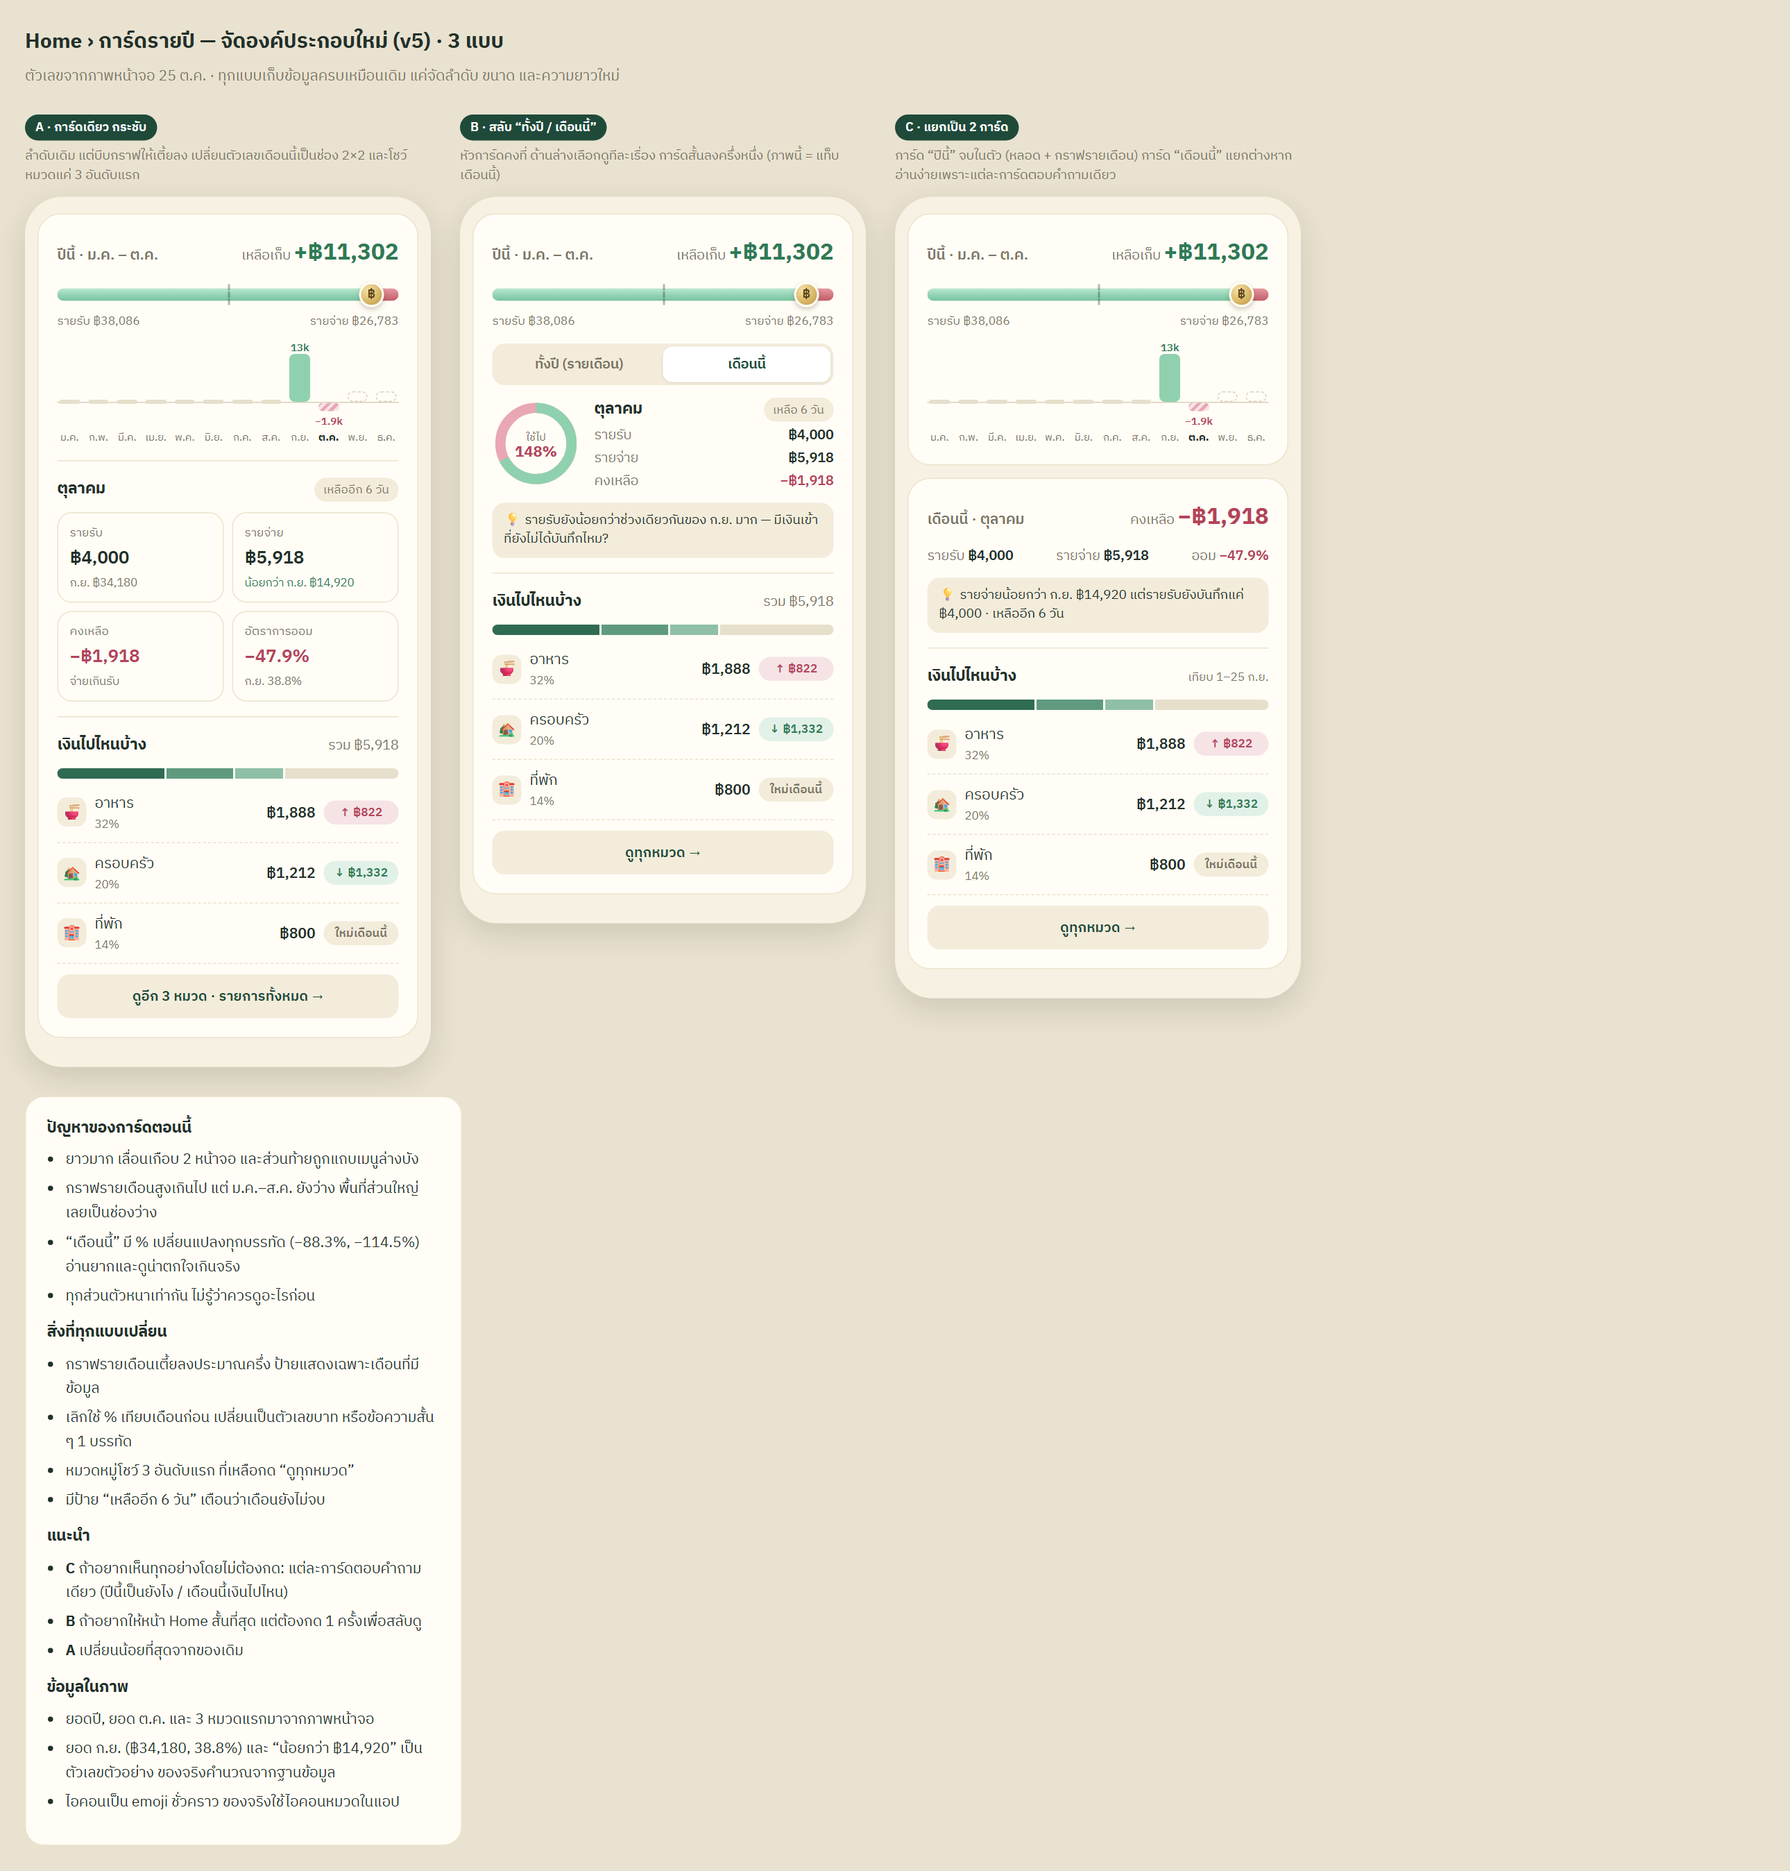
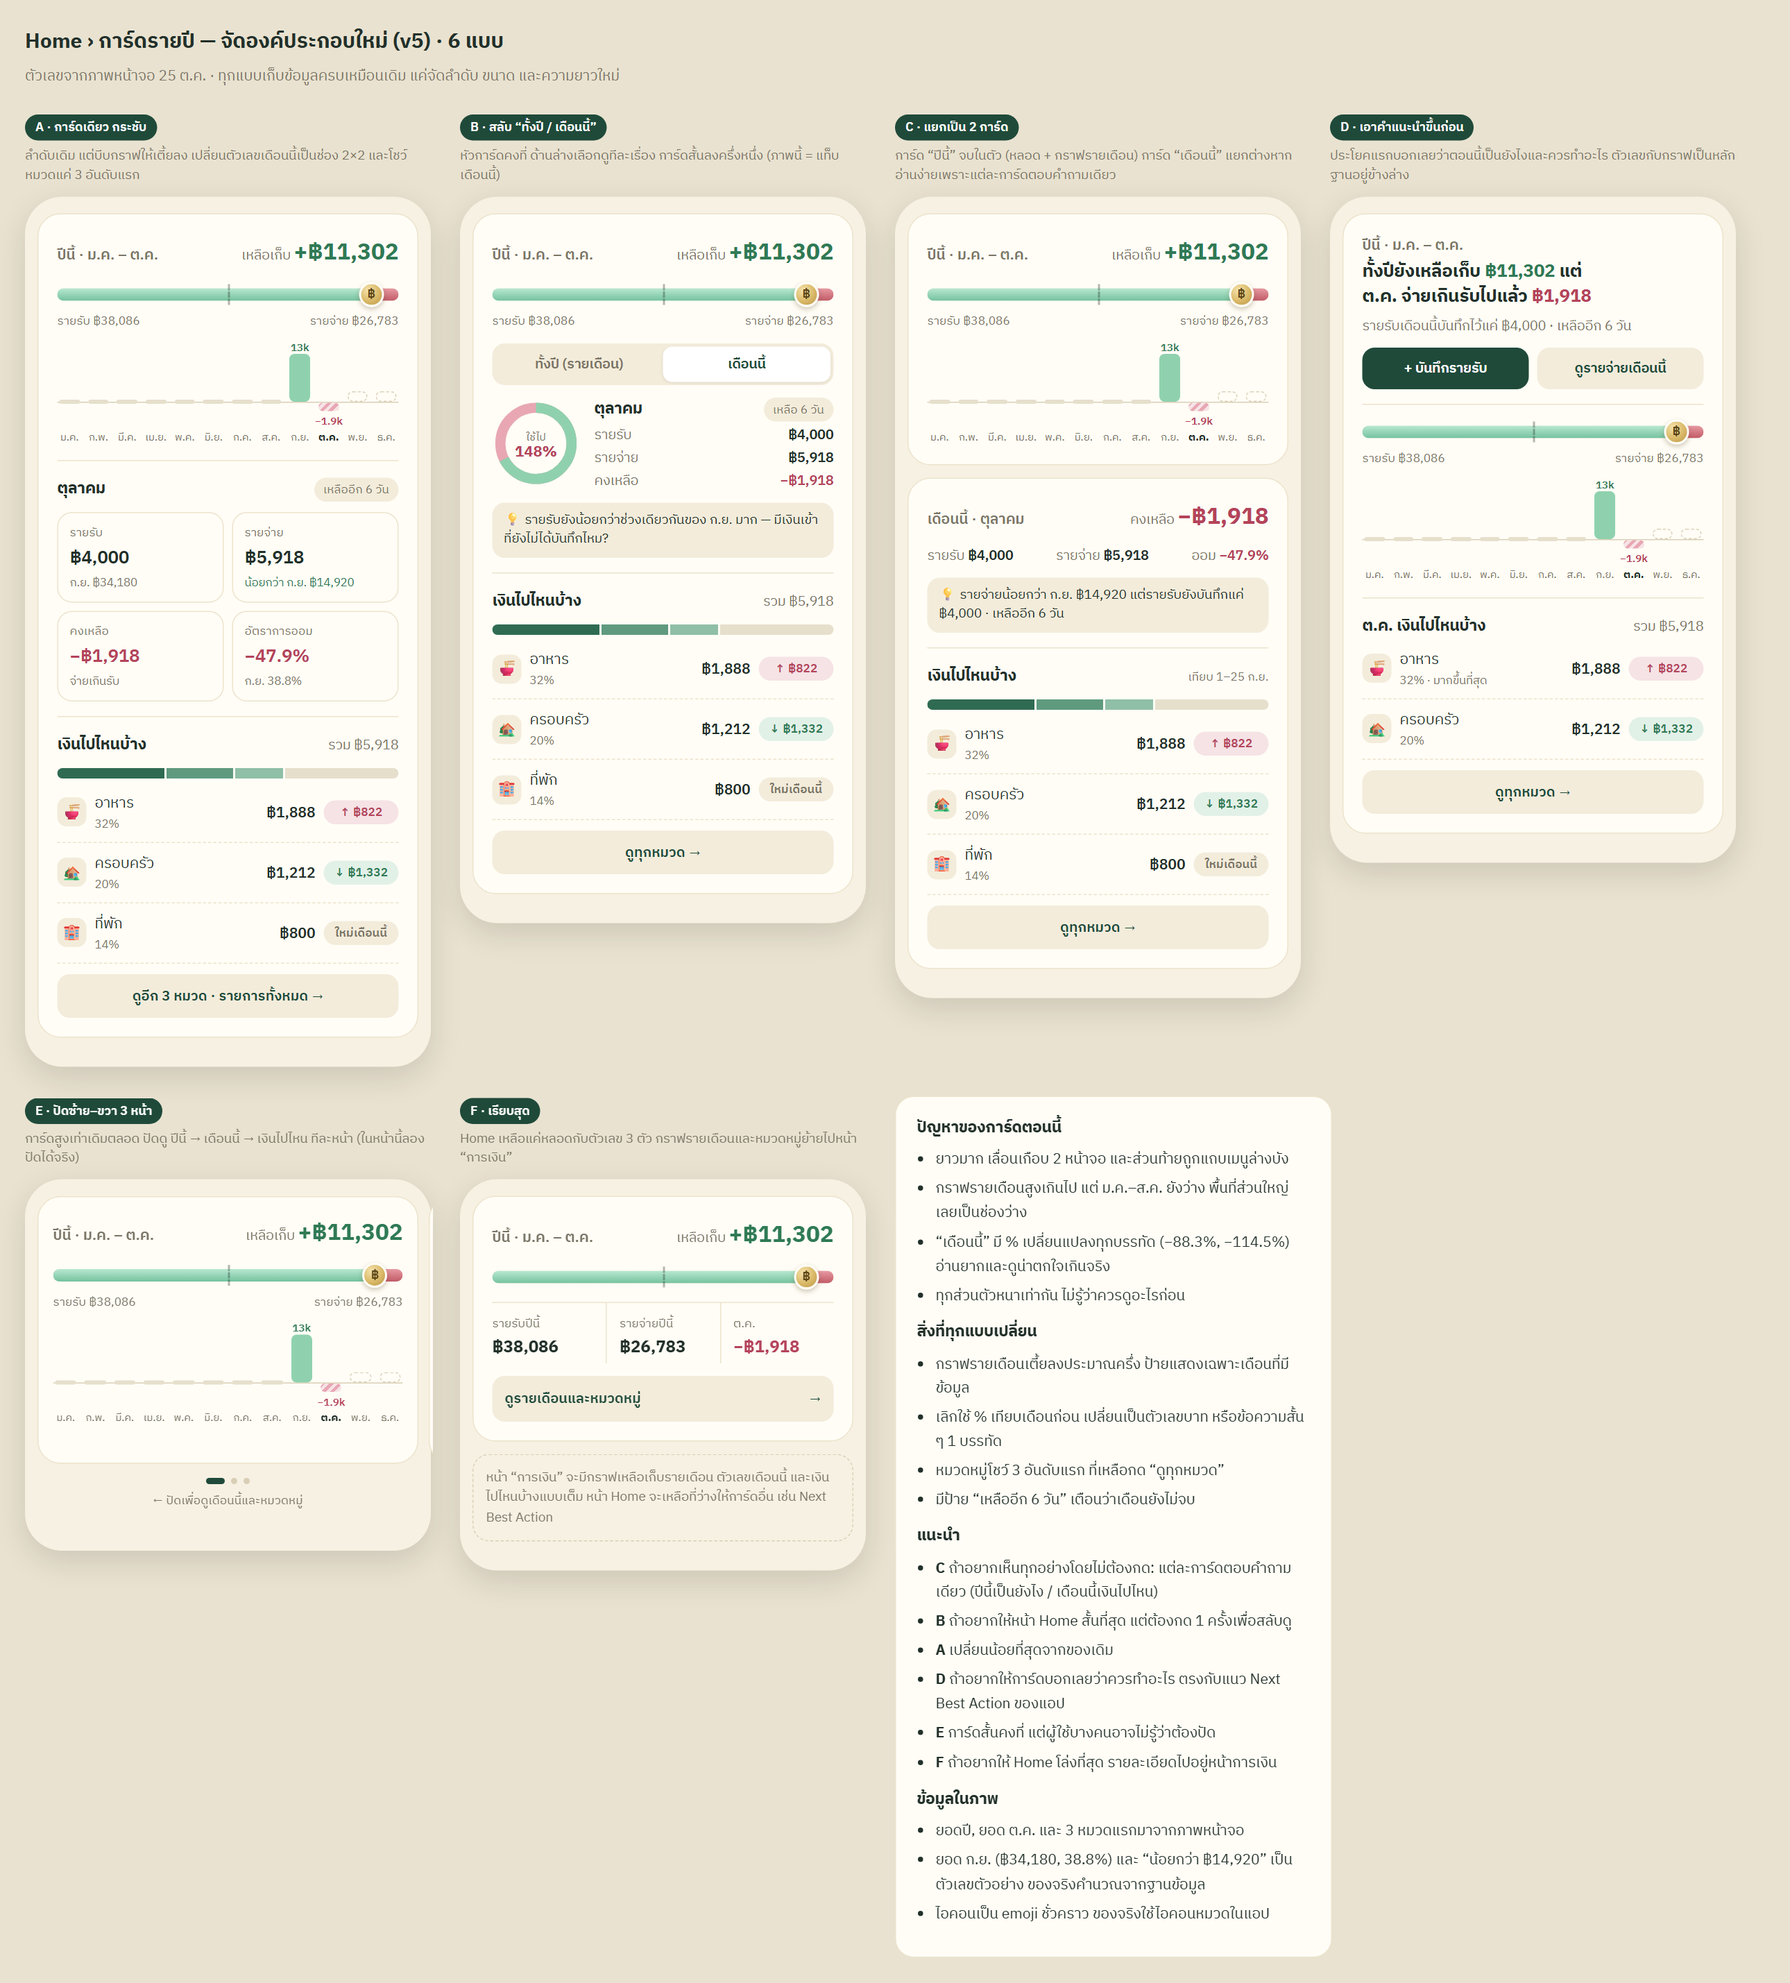
docs(mockup): add options D, E, F to Home yearly card layout v5
D leads with an insight and actions, E swipes between three pages,
F keeps only the bar and three numbers on Home.

diff --git a/assets/mockups/home-yearly-card-layout-v5.html b/assets/mockups/home-yearly-card-layout-v5.html
@@ -86,6 +86,36 @@
   /* ring */
   .ring{display:flex;gap:14px;align-items:center;margin-top:10px}
 
+  /* D: insight first */
+  .lead{font-size:17px;font-weight:700;line-height:1.45;margin:2px 0 0;text-wrap:balance}
+  .lead .good,.lead .bad{font-variant-numeric:tabular-nums}
+  .act{display:flex;gap:8px;margin-top:10px}
+  .act a{flex:1;text-align:center;font-size:13px;font-weight:600;padding:9px 6px;border-radius:12px;text-decoration:none}
+  .act a.pri{background:var(--green);color:#fff}
+  .act a.sec2{background:var(--sand);color:var(--green)}
+  .mini{display:grid;grid-template-columns:repeat(3,1fr);gap:6px;margin-top:12px}
+  .mini div{background:var(--sand);border-radius:12px;padding:7px 9px}
+  .mini span{display:block;font-size:11px;color:var(--muted)}
+  .mini b{font-size:14px;font-variant-numeric:tabular-nums}
+
+  /* E: swipe pages */
+  .swipe{display:flex;gap:10px;overflow-x:auto;scroll-snap-type:x mandatory;margin:0 -14px;padding:0 14px 4px;scrollbar-width:none}
+  .swipe::-webkit-scrollbar{display:none}
+  .swipe .pg{flex:0 0 100%;scroll-snap-align:center;background:var(--card);border:1px solid var(--line);border-radius:22px;padding:16px 14px}
+  .dots{display:flex;justify-content:center;gap:6px;margin-top:10px}
+  .dots i{width:6px;height:6px;border-radius:99px;background:#d9cfb6}
+  .dots i.on{width:18px;background:var(--green)}
+  .peek{font-size:11.5px;color:var(--muted);text-align:center;margin-top:6px}
+
+  /* F: minimal */
+  .trio{display:grid;grid-template-columns:repeat(3,1fr);gap:0;margin-top:12px;border-top:1px solid var(--line)}
+  .trio div{padding:10px 0 2px}
+  .trio div + div{border-left:1px solid var(--line);padding-left:12px}
+  .trio span{display:block;font-size:11.5px;color:var(--muted)}
+  .trio b{font-size:16px;font-variant-numeric:tabular-nums}
+  .rowlink{display:flex;justify-content:space-between;align-items:center;margin-top:12px;padding:11px 12px;border-radius:12px;background:var(--sand);font-size:13.5px;font-weight:600;color:var(--green)}
+  .moved{margin-top:12px;border:1.5px dashed #d9cfb6;border-radius:16px;padding:12px;font-size:12.5px;color:var(--muted);line-height:1.55}
+
   .notes{max-width:420px;background:#fffdf6;border-radius:18px;padding:18px 20px;font-size:14px;line-height:1.65;border:1px solid var(--line)}
   .notes h3{margin:0 0 6px;font-size:15px}
   .notes ul,.notes ol{padding-left:18px;margin:0 0 12px}
@@ -93,7 +123,7 @@
 </style>
 </head>
 <body>
-<h1>Home › การ์ดรายปี — จัดองค์ประกอบใหม่ (v5) · 3 แบบ</h1>
+<h1>Home › การ์ดรายปี — จัดองค์ประกอบใหม่ (v5) · 6 แบบ</h1>
 <p class="sub">ตัวเลขจากภาพหน้าจอ 25 ต.ค. · ทุกแบบเก็บข้อมูลครบเหมือนเดิม แค่จัดลำดับ ขนาด และความยาวใหม่</p>
 
 <div class="row">
@@ -213,6 +243,98 @@
   </div>
 </div>
 
+<!-- ================= D: insight first ================= -->
+<div class="col">
+  <span class="tag">D · เอาคำแนะนำขึ้นก่อน</span>
+  <p class="why">ประโยคแรกบอกเลยว่าตอนนี้เป็นยังไงและควรทำอะไร ตัวเลขกับกราฟเป็นหลักฐานอยู่ข้างล่าง</p>
+  <div class="phone"><div class="card">
+    <p class="h2">ปีนี้ · ม.ค. – ต.ค.</p>
+    <p class="lead">ทั้งปียังเหลือเก็บ <span class="good">฿11,302</span> แต่ ต.ค. จ่ายเกินรับไปแล้ว <span class="bad">฿1,918</span></p>
+    <p class="small muted" style="margin:4px 0 0">รายรับเดือนนี้บันทึกไว้แค่ ฿4,000 · เหลืออีก 6 วัน</p>
+    <div class="act"><a class="pri" href="#">+ บันทึกรายรับ</a><a class="sec2" href="#">ดูรายจ่ายเดือนนี้</a></div>
+
+    <div class="hr"></div>
+    <div class="tug"><div class="track"><span class="inc" style="width:92%"></span><span class="exp"></span></div><span class="mid"></span><span class="coin" style="left:92%">฿</span></div>
+    <div class="between xs muted"><span>รายรับ ฿38,086</span><span>รายจ่าย ฿26,783</span></div>
+    <div class="mbars">
+      <span class="zero"></span>
+      <div class="c"><b class="none"></b></div><div class="c"><b class="none"></b></div><div class="c"><b class="none"></b></div><div class="c"><b class="none"></b></div>
+      <div class="c"><b class="none"></b></div><div class="c"><b class="none"></b></div><div class="c"><b class="none"></b></div><div class="c"><b class="none"></b></div>
+      <div class="c"><b class="up" style="height:46px"></b><em class="good" style="top:0">13k</em></div>
+      <div class="c"><b class="down" style="height:8px"></b><em class="bad" style="top:71px">−1.9k</em></div>
+      <div class="c"><b class="fut"></b></div><div class="c"><b class="fut"></b></div>
+    </div>
+    <div class="mlabels"><span>ม.ค.</span><span>ก.พ.</span><span>มี.ค.</span><span>เม.ย.</span><span>พ.ค.</span><span>มิ.ย.</span><span>ก.ค.</span><span>ส.ค.</span><span>ก.ย.</span><span class="on">ต.ค.</span><span>พ.ย.</span><span>ธ.ค.</span></div>
+
+    <div class="hr"></div>
+    <div class="between"><p class="sec">ต.ค. เงินไปไหนบ้าง</p><span class="small muted">รวม ฿5,918</span></div>
+    <div class="crow"><span class="ic">🍜</span><span>อาหาร<small>32% · มากขึ้นที่สุด</small></span><span class="num">฿1,888</span><span class="delta more">↑ ฿822</span></div>
+    <div class="crow"><span class="ic">🏡</span><span>ครอบครัว<small>20%</small></span><span class="num">฿1,212</span><span class="delta less">↓ ฿1,332</span></div>
+    <div class="more-link">ดูทุกหมวด →</div>
+  </div></div>
+</div>
+
+<!-- ================= E: swipe pages ================= -->
+<div class="col">
+  <span class="tag">E · ปัดซ้าย–ขวา 3 หน้า</span>
+  <p class="why">การ์ดสูงเท่าเดิมตลอด ปัดดู ปีนี้ → เดือนนี้ → เงินไปไหน ทีละหน้า (ในหน้านี้ลองปัดได้จริง)</p>
+  <div class="phone">
+    <div class="swipe">
+      <div class="pg">
+        <div class="between"><p class="h2">ปีนี้ · ม.ค. – ต.ค.</p><span class="small muted">เหลือเก็บ <span class="big good">+฿11,302</span></span></div>
+        <div class="tug"><div class="track"><span class="inc" style="width:92%"></span><span class="exp"></span></div><span class="mid"></span><span class="coin" style="left:92%">฿</span></div>
+        <div class="between xs muted"><span>รายรับ ฿38,086</span><span>รายจ่าย ฿26,783</span></div>
+        <div class="mbars">
+          <span class="zero"></span>
+          <div class="c"><b class="none"></b></div><div class="c"><b class="none"></b></div><div class="c"><b class="none"></b></div><div class="c"><b class="none"></b></div>
+          <div class="c"><b class="none"></b></div><div class="c"><b class="none"></b></div><div class="c"><b class="none"></b></div><div class="c"><b class="none"></b></div>
+          <div class="c"><b class="up" style="height:46px"></b><em class="good" style="top:0">13k</em></div>
+          <div class="c"><b class="down" style="height:8px"></b><em class="bad" style="top:71px">−1.9k</em></div>
+          <div class="c"><b class="fut"></b></div><div class="c"><b class="fut"></b></div>
+        </div>
+        <div class="mlabels"><span>ม.ค.</span><span>ก.พ.</span><span>มี.ค.</span><span>เม.ย.</span><span>พ.ค.</span><span>มิ.ย.</span><span>ก.ค.</span><span>ส.ค.</span><span>ก.ย.</span><span class="on">ต.ค.</span><span>พ.ย.</span><span>ธ.ค.</span></div>
+      </div>
+      <div class="pg">
+        <div class="between"><p class="h2">เดือนนี้ · ตุลาคม</p><span class="chip">เหลือ 6 วัน</span></div>
+        <div class="tiles">
+          <div class="tile"><div class="lbl">รายรับ</div><div class="val num">฿4,000</div></div>
+          <div class="tile"><div class="lbl">รายจ่าย</div><div class="val num">฿5,918</div></div>
+          <div class="tile"><div class="lbl">คงเหลือ</div><div class="val num bad">−฿1,918</div></div>
+          <div class="tile"><div class="lbl">อัตราการออม</div><div class="val num bad">−47.9%</div></div>
+        </div>
+        <div class="coach">💡 รายรับยังน้อยกว่าช่วงเดียวกันของ ก.ย. มาก</div>
+      </div>
+      <div class="pg">
+        <div class="between"><p class="h2">ต.ค. เงินไปไหนบ้าง</p><span class="small muted">฿5,918</span></div>
+        <div class="stack"><i style="flex:32;background:#2f6b52"></i><i style="flex:20;background:#5f9a7f"></i><i style="flex:14;background:#8fbfa6"></i><i style="flex:34;background:#e6dfcc"></i></div>
+        <div class="crow"><span class="ic">🍜</span><span>อาหาร<small>32%</small></span><span class="num">฿1,888</span><span class="delta more">↑ ฿822</span></div>
+        <div class="crow"><span class="ic">🏡</span><span>ครอบครัว<small>20%</small></span><span class="num">฿1,212</span><span class="delta less">↓ ฿1,332</span></div>
+        <div class="crow"><span class="ic">🏨</span><span>ที่พัก<small>14%</small></span><span class="num">฿800</span><span class="delta new">ใหม่</span></div>
+      </div>
+    </div>
+    <div class="dots"><i class="on"></i><i></i><i></i></div>
+    <p class="peek">← ปัดเพื่อดูเดือนนี้และหมวดหมู่</p>
+  </div>
+</div>
+
+<!-- ================= F: minimal ================= -->
+<div class="col">
+  <span class="tag">F · เรียบสุด</span>
+  <p class="why">Home เหลือแค่หลอดกับตัวเลข 3 ตัว กราฟรายเดือนและหมวดหมู่ย้ายไปหน้า “การเงิน”</p>
+  <div class="phone"><div class="card">
+    <div class="between"><p class="h2">ปีนี้ · ม.ค. – ต.ค.</p><span class="small muted">เหลือเก็บ <span class="big good">+฿11,302</span></span></div>
+    <div class="tug"><div class="track"><span class="inc" style="width:92%"></span><span class="exp"></span></div><span class="mid"></span><span class="coin" style="left:92%">฿</span></div>
+    <div class="trio">
+      <div><span>รายรับปีนี้</span><b>฿38,086</b></div>
+      <div><span>รายจ่ายปีนี้</span><b>฿26,783</b></div>
+      <div><span>ต.ค.</span><b class="bad">−฿1,918</b></div>
+    </div>
+    <div class="rowlink"><span>ดูรายเดือนและหมวดหมู่</span><span>→</span></div>
+  </div>
+  <div class="moved">หน้า “การเงิน” จะมีกราฟเหลือเก็บรายเดือน ตัวเลขเดือนนี้ และเงินไปไหนบ้างแบบเต็ม หน้า Home จะเหลือที่ว่างให้การ์ดอื่น เช่น Next Best Action</div>
+  </div>
+</div>
+
 <!-- ================= notes ================= -->
 <div class="notes">
   <h3>ปัญหาของการ์ดตอนนี้</h3>
@@ -234,6 +356,9 @@
     <li><b>C</b> ถ้าอยากเห็นทุกอย่างโดยไม่ต้องกด: แต่ละการ์ดตอบคำถามเดียว (ปีนี้เป็นยังไง / เดือนนี้เงินไปไหน)</li>
     <li><b>B</b> ถ้าอยากให้หน้า Home สั้นที่สุด แต่ต้องกด 1 ครั้งเพื่อสลับดู</li>
     <li><b>A</b> เปลี่ยนน้อยที่สุดจากของเดิม</li>
+    <li><b>D</b> ถ้าอยากให้การ์ดบอกเลยว่าควรทำอะไร ตรงกับแนว Next Best Action ของแอป</li>
+    <li><b>E</b> การ์ดสั้นคงที่ แต่ผู้ใช้บางคนอาจไม่รู้ว่าต้องปัด</li>
+    <li><b>F</b> ถ้าอยากให้ Home โล่งที่สุด รายละเอียดไปอยู่หน้าการเงิน</li>
   </ul>
   <h3>ข้อมูลในภาพ</h3>
   <ul>
